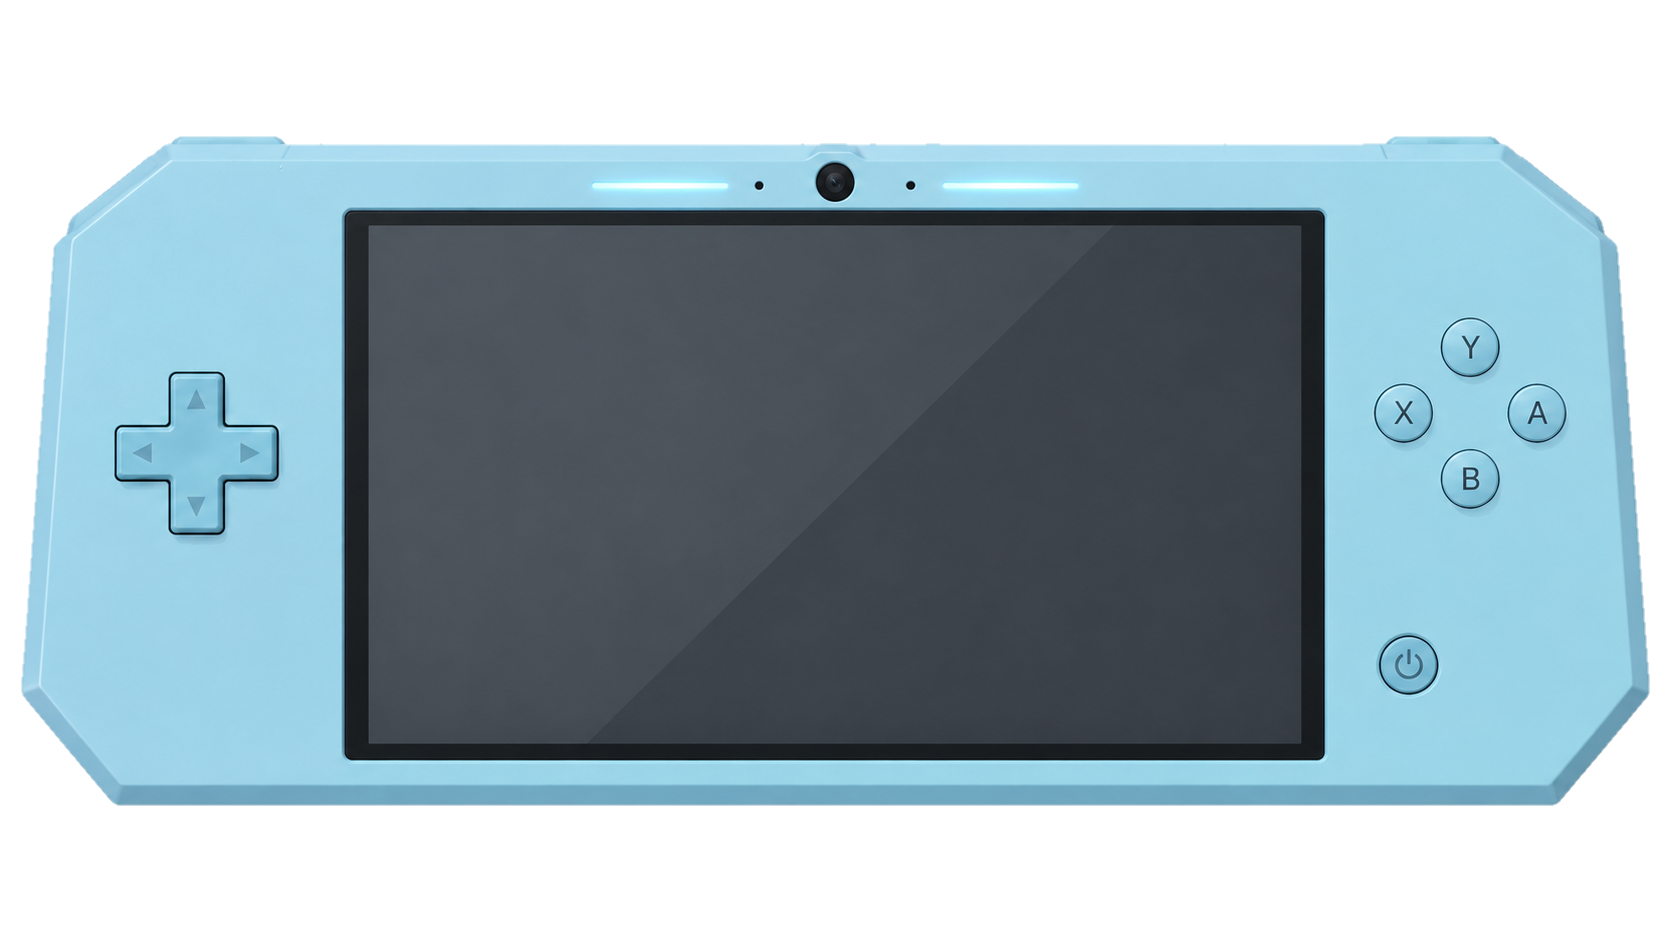
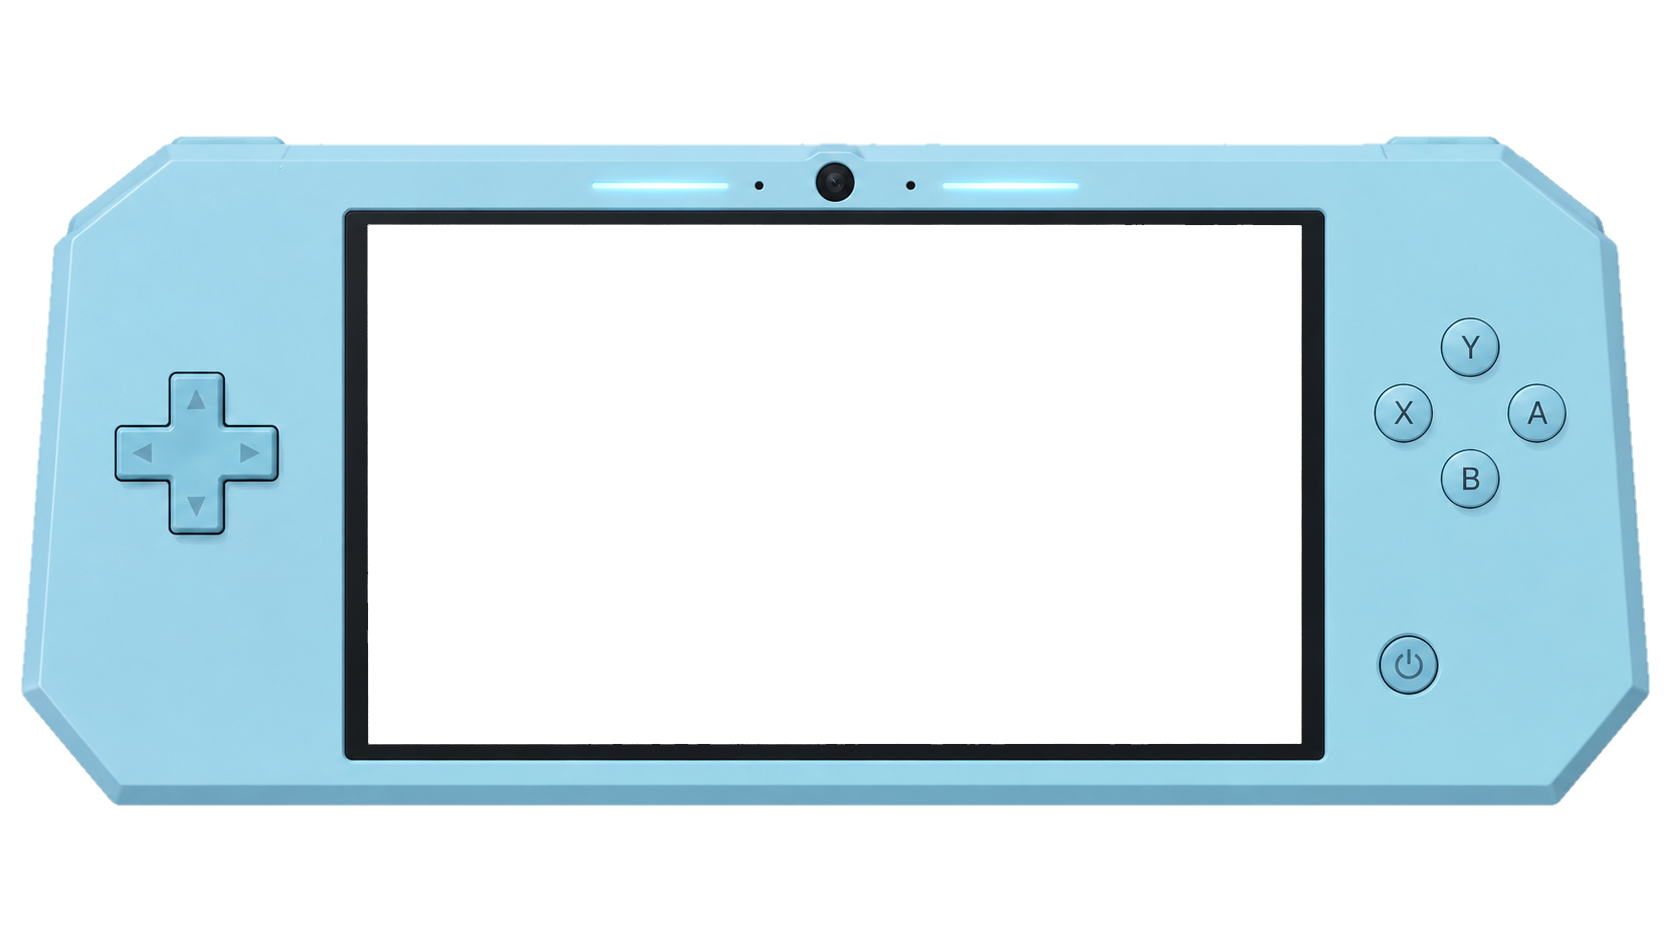
ゲーム機の画面部分くり抜き修正

diff --git a/Assets/Scripts/Managers/GameManager.cs b/Assets/Scripts/Managers/GameManager.cs
@@ -34,5 +34,23 @@ public class GameManager : MonoBehaviour
         // 0.5秒後に3つ目停止
         yield return new WaitForSeconds(0.5f);
         reel3.StopSpin();
+
+        CheckResult();
+    }
+
+    void CheckResult()
+    {
+        Sprite symbol2 = reel2.GetCurrentSymbol();
+        Sprite symbol3 = reel3.GetCurrentSymbol();
+        Sprite symbol1 = reel1.GetCurrentSymbol();
+    
+        if (symbol1 == symbol2 && symbol2 == symbol3)
+        {
+            Debug.Log("🎉 当たり！");
+        }
+        else
+        {
+            Debug.Log("❌ ハズレ！");
+        }
     }
 }

diff --git a/Assets/Scripts/Managers/Reel.cs b/Assets/Scripts/Managers/Reel.cs
@@ -43,4 +43,9 @@ public class Reel : MonoBehaviour
     {
         isSpinning = false;
     }
+
+    public Sprite GetCurrentSymbol()
+    {
+         return image.sprite;
+    }
 }
